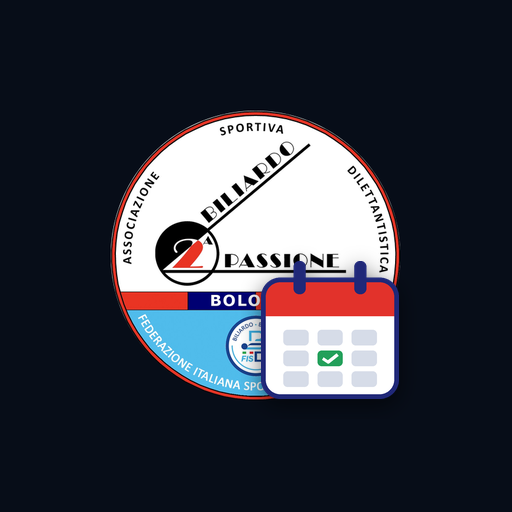
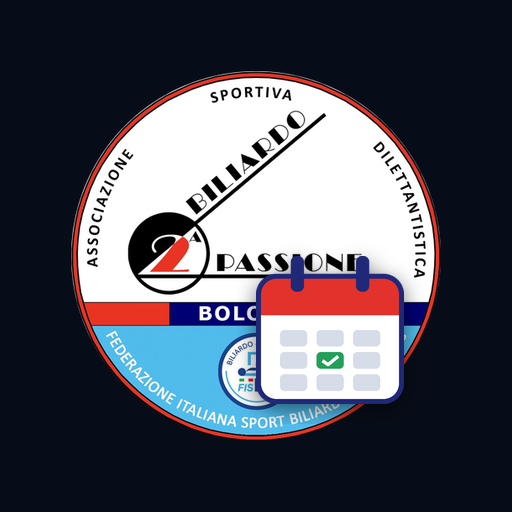
Icona Android piu' grande, come le altre app del circolo
Claude-Session: https://claude.ai/code/session_013Bh35Dcy3i7okrqVmdRNtn

Changed region(s): [[0.125, 0.125, 0.875, 0.875]]

diff --git a/index.html b/index.html
@@ -8,7 +8,7 @@
 <link rel="icon" href="img/logo.png">
 <link rel="manifest" href="manifest.webmanifest">
 <meta name="theme-color" content="#070d18">
-<link rel="apple-touch-icon" href="img/icona-180.png?v=2">
+<link rel="apple-touch-icon" href="img/icona-180.png?v=3">
 <meta name="mobile-web-app-capable" content="yes">
 <meta name="apple-mobile-web-app-capable" content="yes">
 <meta name="apple-mobile-web-app-status-bar-style" content="black">

diff --git a/LEGGIMI_prenota.md b/LEGGIMI_prenota.md
@@ -133,6 +133,8 @@ scritture), quindi non tocca mai il database vero. Le regole non si possono prov
 
 ## Storia delle versioni
 
+- **2026-11-25 (3)** — Icona per Android (maskable) ingrandita: il logo occupa quasi tutto il cerchio come nelle altre app
+  del circolo; icone richiamate con `?v=3`.
 - **2026-11-25 (2)** — Corretta la finestra di prenotazione sul telefono: lo stile delle statistiche (classe `.colonna`)
   la deformava; ora `css/statistiche.css` vale solo dentro `#tab-stat`. Finestre e intestazione più compatte sui telefoni.
 - **2026-11-25** — Nome in alto a destra con tendina: «Esci» per i soci, «Login / Registrati» per gli ospiti (esce
